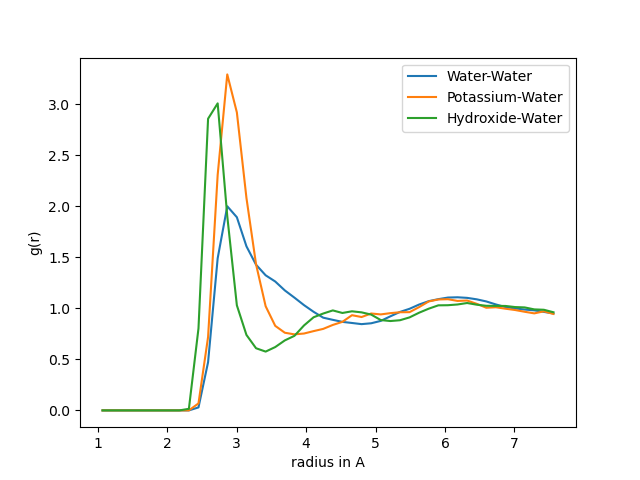
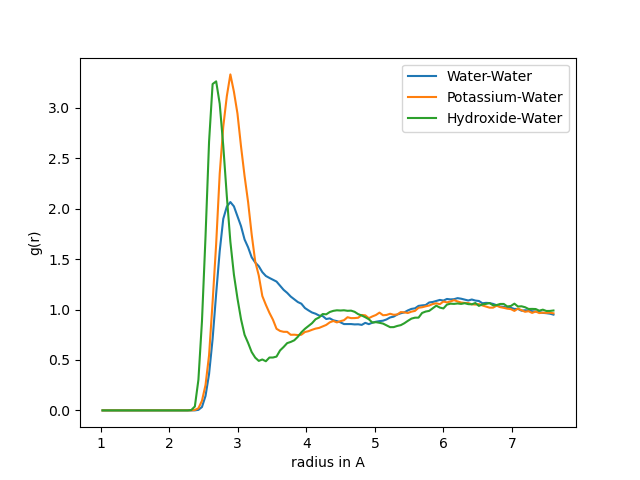
starting with force rdf now

diff --git a/post-processing scripts/KOH systems/mpi_python.py b/post-processing scripts/KOH systems/mpi_python.py
@@ -15,7 +15,7 @@ import os
 class Prot_Hop:
     """MPI supporting postprocesses class for NVT VASP simulations of aqueous KOH."""
 
-    def __init__(self, folder, T_ave=325, dt=0.5, cheap=True, timit=False):
+    def __init__(self, folder, T_ave=325, dt=0.5, cheap=True, time_it=False):
         """
         Postprocesses class for NVT VASP simulations of aqueous KOH.
 
@@ -42,7 +42,7 @@ class Prot_Hop:
         self.error_flag = 0
         self.cheap = cheap
         self.folder = folder
-        self.timit = timit
+        self.time_it = time_it
 
         # Normal Startup Behaviour
         self.setting_properties_all()  # all cores
@@ -149,7 +149,7 @@ class Prot_Hop:
             self.cheap = False
         self.cheap = self.comm.bcast(self.cheap, root=0)
                     
-        if self.rank == 0 and self.timit is True:
+        if self.rank == 0 and self.time_it is True:
             print('Time after communication', time.time() - self.tstart)
 
     def recognize_molecules(self, n):
@@ -250,7 +250,7 @@ class Prot_Hop:
                 self.H2O[n, :, :] = self.pos_O[n, self.H2O_i[n, :], :]+ self.L*self.H2O_shift
                 self.OH_i_s = OH_i  # always sort after reaction or initiation to have a cheap check lateron.
 
-    def loop_timesteps_all(self, n_samples=10): 
+    def loop_timesteps_all(self, n_samples=100): 
         """This function loops over all timesteps and tracks all over time properties
         
         The function tracks calls the molecule recognition function and the rdf functions when needed.
@@ -310,7 +310,7 @@ class Prot_Hop:
                 self.rdf_compute_all(n)
             
 
-        if self.rank == 0 and self.timit is True:
+        if self.rank == 0 and self.time_it is True:
             print('Time calculating distances', time.time() - self.tstart)
 
     def rdf_compute_all(self, n, nb=128, r_max=None):
@@ -467,19 +467,19 @@ class Prot_Hop:
 
     def test_combining(self):
         if self.rank == 0:
-            if self.timit is True:
+            if self.time_it is True:
                 print('time to completion',  time.time() - self.tstart)
-            if self.size == 1:
-                np.savez(self.folder + r"/single_core.npz",
-                         OH_i=self.OH_i, OH=self.OH, H2O_i=self.H2O_i, H2O=self.H2O,  # tracking OH-
-                         r_rdf=self.r_cent, rdf_H2OH2O=self.rdf_H2OH2O, rdf_OHH2O=self.rdf_OHH2O, rdf_KH2O=self.rdf_KH2O)  # sensing the rdf
-                
+            if self.size == 1:                
                 # path = r'C:\Users\vlagerweij\Documents\TU jaar 6\Project KOH(aq)\Repros\Quantum_to_Transport\post-processing scripts\KOH systems\figures_serial'
                 path = self.folder + r"/single_core"
                 try:
                     os.makedirs(path, exist_ok=True)
                 except OSError as error:
                     print(error, "Continuing")
+                    
+                np.savez(path + r"/output.npz",
+                         OH_i=self.OH_i, OH=self.OH, H2O_i=self.H2O_i, H2O=self.H2O,  # tracking OH-
+                         r_rdf=self.r_cent, rdf_H2OH2O=self.rdf_H2OH2O, rdf_OHH2O=self.rdf_OHH2O, rdf_KH2O=self.rdf_KH2O)  # sensing the rdf
 
                 plt.plot(self.OH_i)             
                 plt.xlim(0, self.size*self.pos_O.shape[0])      
@@ -516,7 +516,7 @@ class Prot_Hop:
                 plt.close()
                 
             else:
-                loaded = np.load(self.folder + r"/single_core.npz")
+                loaded = np.load(self.folder + r"/single_core/output.npz")
                 # test outputs of code
                 if np.allclose(self.OH_i, loaded['OH_i'], rtol=1e-05, atol=1e-08, equal_nan=False) == False:
                     print("Indexing OH between multicore and single core arrays differs more than acceptable")
@@ -542,7 +542,12 @@ class Prot_Hop:
                 try:
                     os.mkdir(path)
                 except OSError as error:
-                    print(error, "Continuing")
+                    print("os.mkdir threw error, but continued with except:", error)
+                
+                np.savez(path + r"/output.npz",
+                         OH_i=self.OH_i, OH=self.OH, H2O_i=self.H2O_i, H2O=self.H2O,  # tracking OH-
+                         r_rdf=self.r_cent, rdf_H2OH2O=self.rdf_H2OH2O, rdf_OHH2O=self.rdf_OHH2O, rdf_KH2O=self.rdf_KH2O)  # sensing the rdf
+                
                 plt.figure()
                 # plt.plot(self.OH[:, 0, :], label=['x', 'y', 'z'])
                 plt.plot(self.OH_i)
@@ -591,7 +596,7 @@ class Prot_Hop:
 # Traj = Prot_Hop(r"/mnt/c/Users/vlagerweij/Documents/TU jaar 6/Project KOH(aq)/Repros/RPBE_Production/MLMD/100ps_Exp_Density/i_1", dt=0.5)
 # Traj = Prot_Hop(r"/Users/vlagerweij/Documents/TU jaar 6/Project KOH(aq)/Repros/RPBE_Production/MLMD/100ps_Exp_Density/i_1", dt=0.5)
 # Traj = Prot_Hop(r"/Users/vlagerweij/Documents/TU jaar 6/Project KOH(aq)/Repros/RPBE_Production/AIMD/10ps/i_1/", dt=0.5)
-Traj = Prot_Hop(r"/Users/vlagerweij/Documents/TU jaar 6/Project KOH(aq)/Repros/Quantum_to_Transport/post-processing scripts/KOH systems/test_output", dt=0.5)
+Traj = Prot_Hop(r"/Users/vlagerweij/Documents/TU jaar 6/Project KOH(aq)/Repros/Quantum_to_Transport/post-processing scripts/KOH systems/test_output", dt=0.5, time_it=True)
 # Traj = Prot_Hop(r"/Users/vlagerweij/Documents/TU jaar 6/Project KOH(aq)/Repros/Quantum_to_Transport/post-processing scripts/KOH systems/test_output/combined_simulation", dt=0.5)
 
 # Traj = Prot_Hop(r"/home/jelle/simulations/RPBE_Production/6m/AIMD/i_1/part_1/", dt=0.5)
